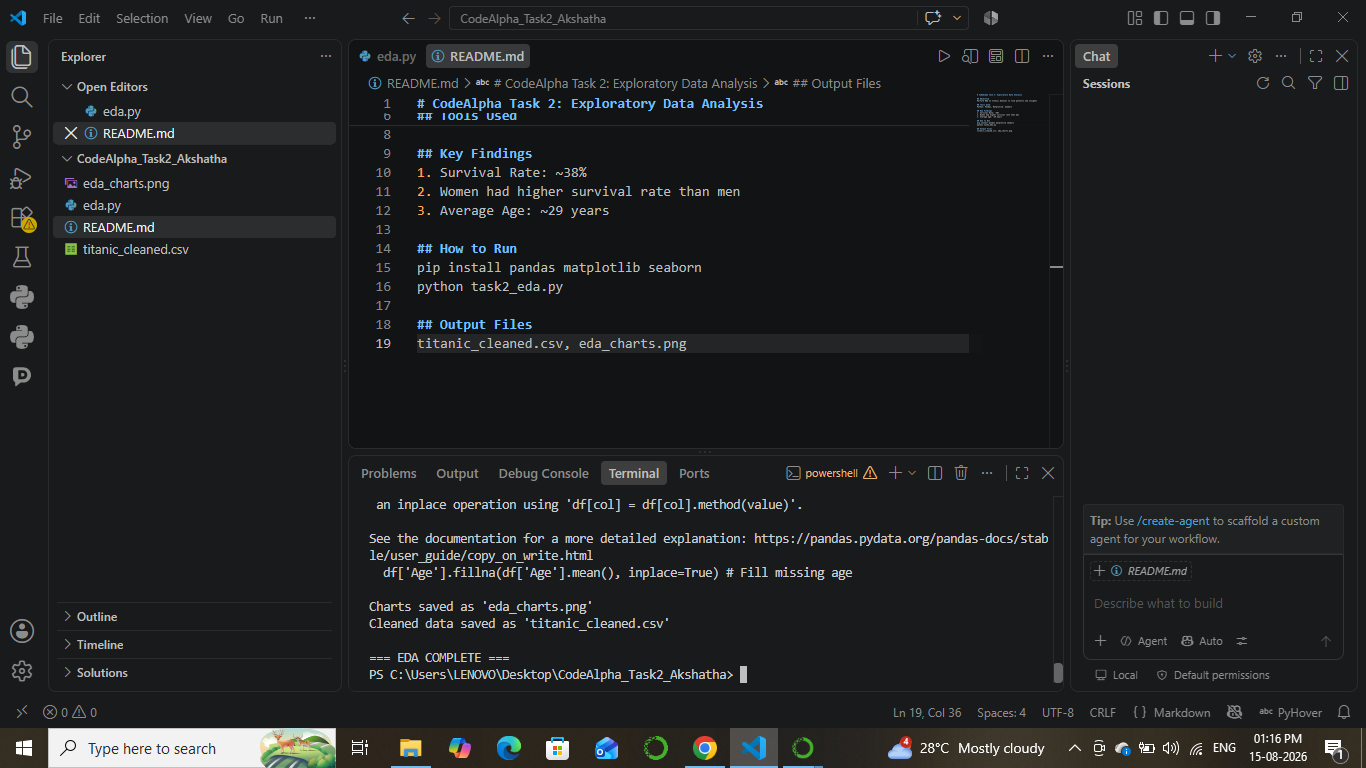
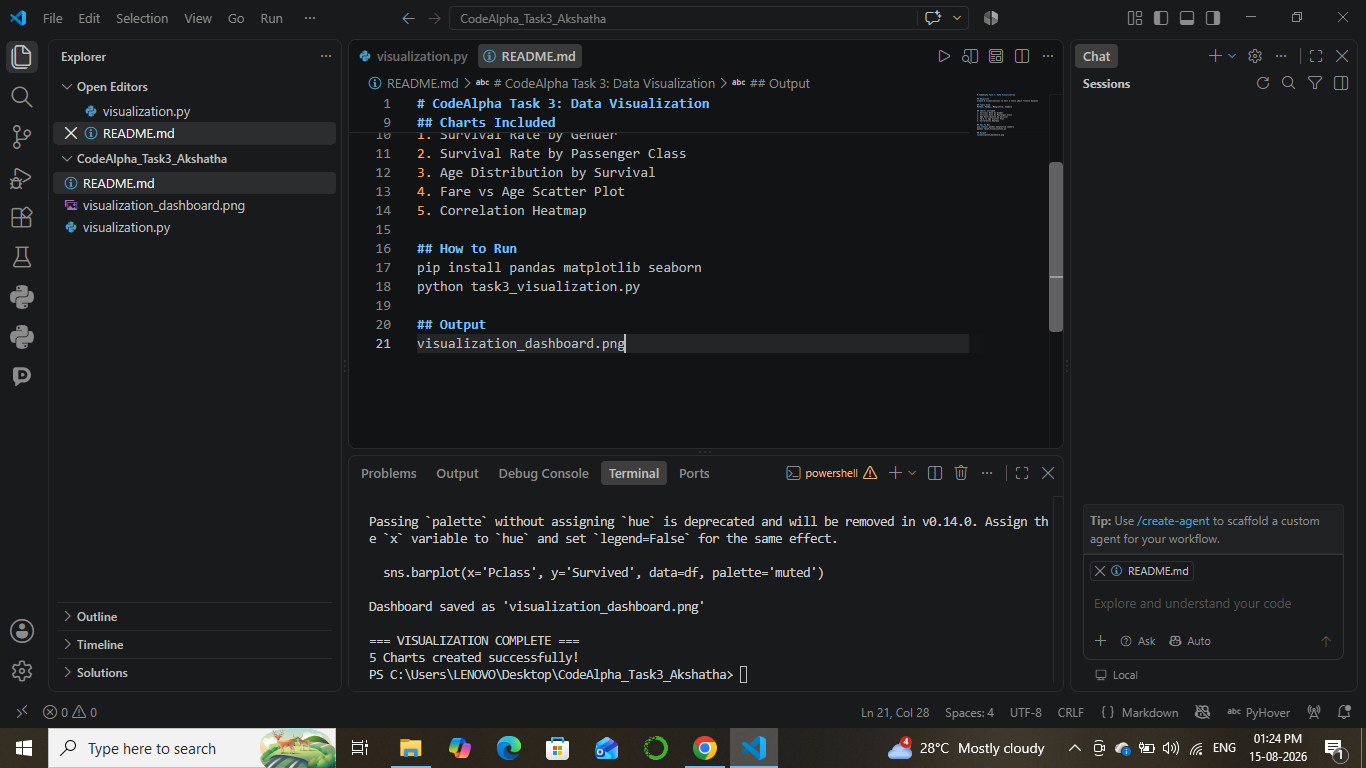
Added Task 3 -Visualization

diff --git a/visualization.py b/visualization.py
@@ -1,0 +1,54 @@
+import pandas as pd
+import matplotlib.pyplot as plt
+import seaborn as sns
+
+print("=== CODEALPHA TASK 3: DATA VISUALIZATION ===")
+
+# 1. LOAD DATASET
+url = "https://raw.githubusercontent.com/datasciencedojo/datasets/master/titanic.csv"
+df = pd.read_csv(url)
+
+# 2. SET BEAUTIFUL STYLE
+sns.set_style("whitegrid")
+plt.figure(figsize=(15, 10))
+
+# 3. CHART 1: Survival Rate by Gender
+plt.subplot(2, 3, 1)
+sns.barplot(x='Sex', y='Survived', data=df, palette='pastel')
+plt.title('Survival Rate by Gender')
+plt.ylabel('Survival Rate')
+plt.ylim(0, 1)
+
+# 4. CHART 2: Survival by Passenger Class
+plt.subplot(2, 3, 2)
+sns.barplot(x='Pclass', y='Survived', data=df, palette='muted')
+plt.title('Survival Rate by Passenger Class')
+plt.xlabel('Class: 1=Upper, 2=Middle, 3=Lower')
+plt.ylabel('Survival Rate')
+plt.ylim(0, 1)
+
+# 5. CHART 3: Age Distribution by Survival
+plt.subplot(2, 3, 3)
+sns.histplot(data=df, x='Age', hue='Survived', bins=30, kde=True, palette='Set1')
+plt.title('Age Distribution by Survival')
+plt.xlabel('Age')
+
+# 6. CHART 4: Fare vs Age Scatter Plot
+plt.subplot(2, 3, 5)
+sns.scatterplot(x='Age', y='Fare', hue='Survived', data=df, alpha=0.6, palette='coolwarm')
+plt.title('Fare vs Age colored by Survival')
+plt.xlabel('Age')
+plt.ylabel('Fare ($)')
+
+# 7. CHART 5: Correlation Heatmap
+plt.subplot(2, 3, 6)
+corr = df.corr(numeric_only=True)
+sns.heatmap(corr, annot=True, cmap='coolwarm', fmt='.2f', linewidths=0.5)
+plt.title('Correlation Heatmap')
+
+plt.tight_layout()
+plt.savefig('visualization_dashboard.png', dpi=300)
+print("\nDashboard saved as 'visualization_dashboard.png'")
+
+print("\n=== VISUALIZATION COMPLETE ===")
+print("5 Charts created successfully!")

diff --git a/README.md b/README.md
@@ -1,19 +1,21 @@
-# CodeAlpha Task 2: Exploratory Data Analysis
+# CodeAlpha Task 3: Data Visualization
 
 ## Objective
-Perform EDA on Titanic Dataset to find patterns and insights
+Create 5 visualizations to tell a story about Titanic dataset
 
 ## Tools Used
 Python, Pandas, Matplotlib, Seaborn
 
-## Key Findings
-1. Survival Rate: ~38%
-2. Women had higher survival rate than men
-3. Average Age: ~29 years
+## Charts Included
+1. Survival Rate by Gender
+2. Survival Rate by Passenger Class  
+3. Age Distribution by Survival
+4. Fare vs Age Scatter Plot
+5. Correlation Heatmap
 
 ## How to Run
 pip install pandas matplotlib seaborn
-python task2_eda.py
+python task3_visualization.py
 
-## Output Files
-titanic_cleaned.csv, eda_charts.png
+## Output
+visualization_dashboard.png
